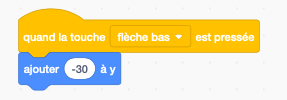
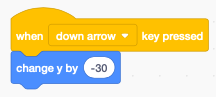
add pen and technique chapter

Changed region(s): [[0.0278, 0.0619, 0.9722, 0.9278]]

diff --git a/docs/1_intro/intro.rst b/docs/1_intro/intro.rst
@@ -1,5 +1,5 @@
 Introduction to Scratch
-======================
+=======================
 
 Scratch is a **programming language** which uses blocks.
 Each **block** is an instruction for the the computer to do something.
@@ -8,107 +8,114 @@ To create a **Scratch progam**, you assemble colored blocks into a sequence.
 
 .. raw:: html
 
-    <iframe src="https://scratch.mit.edu/projects/380796710/embed" allowtransparency="true" width="485" height="402" frameborder="0" scrolling="no" allowfullscreen></iframe>
+    <iframe src="https://scratch.mit.edu/projects/380796710/embed" 
+    allowtransparency="true" width="485" height="402" frameborder="0" scrolling="no" allowfullscreen></iframe>
 
 
 Create an account
 -----------------
 
-Pour sauvegarder et partager tes programmes en ligne,
-tu dois aller sur le site Scratch et créer un compte.
+You can create a Scratch program directly in a web navigator by going to this address
 
 https://scratch.mit.edu/
 
-* N'utilise pas ton vrai nom pour créer un compte
+If you want to save and share your programs you have to create your own account.
+Don't use your real name when creating an account.
+
 
 Switch the language
 -------------------
 
-Pour changer la langue de Scratch, cliqure sur le symbole du globe.
-Si tu choisis **English** tu obtiendra cette interface:
+To change the language of the Scratch menus and of the programming blocks, 
+click on the globe symbol and select your desired language.
 
-.. image:: english.png
+In **English** you get this interface:
 
-Pas seulement les menus seront tous traduit dans la nouvelle langue.
-Le code lui-même change aussi. 
+.. image:: menu_en.png
 
-Par exemple *avance 10 pas* en français va devenir *move 10 steps* en anglais.
+In **Japanese** you will get the interface below.
+Not only the Scratch menus and tabs are translated to the new language, 
+also the language inside the program blocks changes.
+
+For example the block *move 10 steps* in English becomes *10歩動かす* in Japanese.
+
+.. image:: menu_jp.png
 
 
-Programming blocks
-------------------
+The programming blocks
+----------------------
 
-Dans l'onglet **Code** tu trouves 9 catégories de blocs. 
-Chaque catégorie a une couleur différente.
-Ceci te permet de les reconnaitre plus facilement.
+In the **Code** tab you find 9 different block categories.
+Each category has a different color.  The **Motion** blocks are blue.
+This category contains all the blocks to move a sprite.
+The coloring helps you to recognize the blocks more easily.
 
-Les blocs de la catégorie **Movement** sont bleus. 
-Tu peux y trouver par example le bloc *avander de 10 pas*.
-Tu y trouves toutes les commandes pour faire bouger un sprite.
-
-.. image:: menu_move.png
-
-Les blocs de la catégorie **Evénements** sont beiges.
-Tu peux y trouver par exemple le bloc *quand ⚑ est cliqué*.
-Ce type de bloc doit toujours être en haut d'une séquence de blocs.
-Tu vois que sa forme est différente: il n'a pas d'encoche de connexion vers le haut.
+The blocks in the **Events** category are yellow. 
+You find for example the block *when ⚑ clicked*.
+This type of block is called a **hat block** and is used at the top of a progamming stack.
+It allows to attach other blocks only below, not above.
 
 .. image:: menu_event.png
 
-Pour programmer tu dois déplacer un bloc depuis la palette vers la zone de scripts.
-Deus bloc se connectent à l'aide de petits embouts.
+To create a program you drag blocks from the palette to the script canvas.
+Two or more blocks interlock to form a **stack**.
+
 
 Your first program
 ------------------
 
-- clique sur **Evénements**
-- choisis le bloc *quand ⚑ est cliqué*
-- clique sur **Mouvement**
-- choisis le bloc *avancer de 10 pas*
+Create your first program by doing the following: 
 
-Crée ce programme
+- select the **Events** category
+- drag the *when ⚑ clicked* block to the canvas
+- select the **Motion** category
+- drag the *move 10 steps* block to the canvas and attach it
 
 .. image:: intro1.png
 
-Lance le programme en faisant une des deux choses:
+You can execute the program either by 
 
-- cliquer sur le bout de code
-- cliquer sur le drapeau vert
+- clicking on the code blocks
+- clicking on the green flag
 
 .. image:: cat.png
 
+Executing the code makes the cat move 10 steps forward.
+A step is the base unit of the screen (also called a pixel); 
+the whole stage is 480 pixels wide.
 
-ce qui fait anvancer le chat de 10 pas.
-En Scratch 1 pas est un pixel.
-Un pixel est un point élémentaire de l'écran.
 
 The coordinate system
 ---------------------
 
-A la fin de la palette **Mouvement**, tu peux cocher *abcisse x* et *ordonnée y*.
+At the end of the **Motion** palette you can check 
+
+- x position
+- y position
 
 .. image:: coord_check.png
 
-Ceci va afficher les coordonnées du sprite dans l'écran.
+This will display the coordinates of the cat on the stage.
+In the example below, the cat is at position x=-15 and y=114.
 
 .. image:: coord_display.png
 
-Essaye de déplacer le chat.
+Try now to move the cat with the mouse.
 
-Les coordonnées vont varier de -240 à 240 pour la direction x (abscisse) 
-et de -180 à 180 pour la direction y (coordonnée).
+- the x position goes from -240 to 240
+- the y position goes from -180 to 180
+
 
 Move a sprite
 -------------
 
-Tu peux utiliser les touches de direction pour déplacer le sprite.
-Crée ce bout de programme pour faire avancer le chat de 30 pas
-quand tu appuye sur la touche *droite*.
+You can use the arrow keys to move the cat sprite to the left or to the right.
+Create this code which moves the cat sprite 30 steps when you press the *right arrow* key.
 
 .. image:: move_right.png
 
-Crée un autre bout de programme pour faire reculer le chat de 30 pas
-quand tu appuye sur la touche *gauche*.
+Create another code stack which moves the cat sprite 30 steps to the left, 
+when you press the *left arrow* key.
 
 .. image:: move_left.png
 
@@ -116,11 +123,11 @@ quand tu appuye sur la touche *gauche*.
 Move along the y axis
 ---------------------
 
-Tu peux faire bouger le chat vers le haut avec ce bout de code:
+You can also move the sprite up along the y-axis using this
 
 .. image:: move_up.png
 
-et vers le bas avec ce code-ci:
+or move the sprite down, using that
 
 .. image:: move_down.png
 
@@ -128,8 +135,8 @@ et vers le bas avec ce code-ci:
 Glide to a random position
 --------------------------
 
-Tu peux facilment faire glisser ton sprite vers une position aléatoire.
-Essaie ce-ci:
+There is a block to move the sprite to a random position.
+Try this:
 
 .. image:: move_random.png
 
@@ -137,41 +144,44 @@ Essaie ce-ci:
 Animate walking
 ---------------
 
-L'apparence d'un sprite est appelé **costume**. 
-Le chat a déjà un deuxième costume par défaut, avec les pieds dans une autre position.
+A sprite can have more than one appearance. It's called a **costume**. 
+The cat has 2 costumes which are called *costume1* and *costume2*. 
+It's feet are in a different walking position. These are the two cat costumes.
 
-.. image:: cat2.png
+.. image:: costumes.png
 
-Le code suivant va créer une animation. 
-La position des pieds dans les deux images est différent de 30 pas. 
-Si tu change de costume itération, ça donne l'impression que le chat marche.
+By alternating between these two costumes and advancing at the same time,
+we get the illusion of walking.
 
 .. image:: animate1.png
 
-Quand le chat arrive au bord droit, il ne peut plus avancer et reste coincé.
+When the cat reaches the right edge, it cannot move any further.
 
 .. image:: cat_border.png
 
-Tu peux ajouter le bloc *rebondir si le bord est atteint*.
+You can add the block **if on edge, bounce** to make the cat go the other way.
 
 
 Continous animation
 -------------------
 
-Tu peux faire bouger automatiquement un sprite en mettant les blocs de déplacement
-de l'exemple précéent dans une boucle.
+You can animate a sprite continously by using a loop. 
+But now we have to slow it down with a **wait 0.3 seconds** block.
 
 .. image:: animate2.png
 
-Quand tu clique sur le drapeau, le chat commence à faire des aller-retours
-en continuité.
+When you start the program by clicking on the green flag, 
+the cat starts to pace back and forth continously.
 
-Add a back-drop
----------------
+Add a backdrop
+--------------
+
+You can also add a backdrop to your program.
 
 .. raw:: html
 
-    <iframe src="https://scratch.mit.edu/projects/380796710/embed" allowtransparency="true" width="485" height="402" frameborder="0" scrolling="no" allowfullscreen></iframe>
+    <iframe src="https://scratch.mit.edu/projects/380796710/embed" 
+    allowtransparency="true" width="485" height="402" frameborder="0" scrolling="no" allowfullscreen></iframe>
 
 https://scratch.mit.edu/projects/380796710
 

diff --git a/docs/1_technique/technique.rst b/docs/1_technique/technique.rst
@@ -91,3 +91,63 @@ Inside the loop we:
 The first 4 cats are clones, the last one is the orignal.
 
 .. image:: size3.png
+
+Increment a variable
+--------------------
+
+The block **change by** can be used to increment a variable.
+The exemple below increments the variable **i** by 1 when pressing space.
+
+.. image:: inc.png
+
+We display the variable in a speech bubble.
+
+.. image:: inc2.png
+
+Reset the counter
+-----------------
+
+Each time we press the space bar the counter **i** increments.
+We can add an **if** block to reset the counter when reaching a certain value.
+
+.. image:: inc3.png
+
+Use modulo to wrap
+------------------
+
+Another way to wrap around is the function **modulo** or **mod** which returns
+the remainder of a division.
+
+This is shorter:
+
+.. image:: mod.png
+
+How does it work ? 
+You can place only the **mod** block on the programming canvas and test it
+by entering numbers and click with the mouse to evaluate the expression.
+
+You will see **5 mod 6** is 5 (the reminder of 5 divided by 6).
+
+.. image:: mod2.png
+
+You will see **6 mod 6** is 0 (the reminder of 6 divided by 6).
+
+.. image:: mod3.png
+
+The counter i cycles through the 6 values 0, 1, 2, 3, 4, 5.
+
+To start with 1 instead with 0 we can modifiy the expression to this.
+
+.. image:: mod4.png
+
+The counter i cycles now through the 4 values 1, 2, 3, 4.
+
+Cycle the other way
+-------------------
+
+We can also decrement and cycle back when reaching 0.
+
+.. image:: mod5.png
+
+Here the counter **i** cycles through the range 3, 2, 1, 0.
+

diff --git a/docs/4_pen/pen.rst b/docs/4_pen/pen.rst
@@ -263,4 +263,43 @@ This is the project
 https://scratch.mit.edu/projects/398912533
 
 
+Move by (x, y)
+--------------
 
+There are two **change x/y by** blocks but no block which changes both at the same time.
+Let's create such a function.
+
+.. image:: pen_move_by.png
+
+Now let's define one to draw a line by an amount (x, y).
+
+.. image:: pen_line.png
+
+
+Draw a grid
+-----------
+
+Now we have everything to draw a grid.
+
+.. image:: pen_grid.png
+
+We place the pen to the starting position.
+Now draw a 7x5 grid with a line distance **d=20**.
+
+.. image:: pen_grid2.png
+
+And this is the result.
+
+.. image:: pen_grid3.png
+
+We place the pen to another starting position, 
+then change the color to purple and the thickness to 3.
+Now draw a 3xs grid with a line distance **d=30**.
+
+.. image:: pen_grid4.png
+
+And this is the result.
+
+.. image:: pen_grid5.png
+
+https://scratch.mit.edu/projects/398983654
